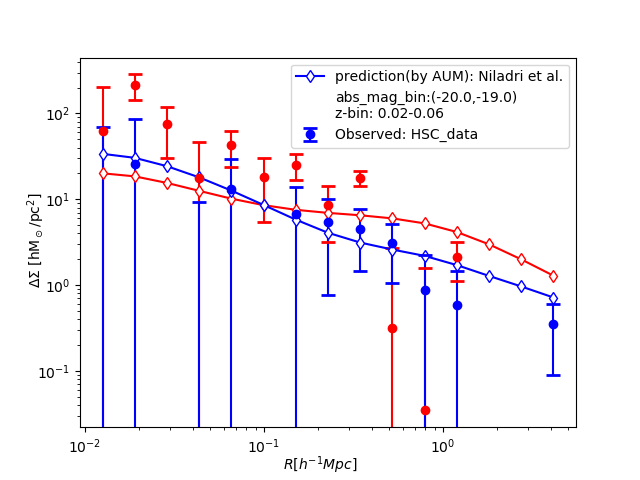
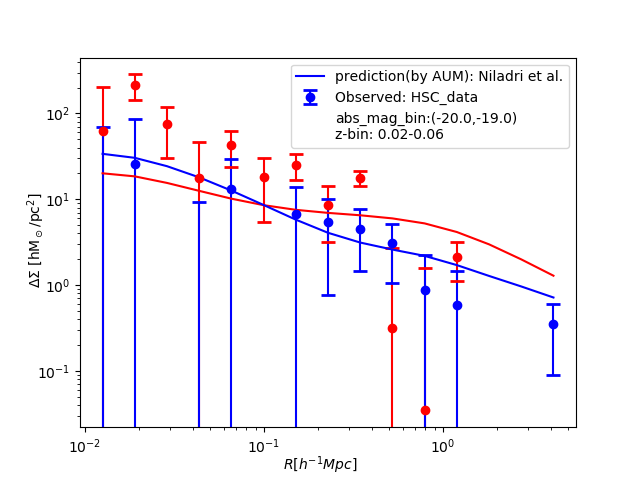
removed markers from theoretical plot

diff --git a/esd_plots_obs+theo.py b/esd_plots_obs+theo.py
@@ -21,7 +21,6 @@ for tag in identifier:
     #for ii,colr in zip(range(len(axes)),colour): #accessing one row at a time.
     #fig,axes = plt.subplots(1,1)
     for colr in colour:
-        fig,axes = plt.subplots(1,1)
         # get data from weaklensing pipeline output to plot
         deltasigma,r,errDeltaSigma = np.loadtxt('%s%d_%s.dat'%(base,tag,colr),usecols=(5,7,12),unpack=True)
         notnan = ~np.isnan(deltasigma) & ~np.isnan(r) & ~np.isnan(errDeltaSigma)
@@ -41,10 +40,11 @@ for tag in identifier:
             esd = dic[magbin[1:][binmax==float(hdr['absmmax'])][0]][1]['blue']
      
         # when plotting one colr on one plot
-        axes.plot(rp, esd, label=f"prediction(by AUM): Niladri et al.",c=colr, marker='d',markerfacecolor='white')
+        fig,axes = plt.subplots(1,1)
+        axes.plot(rp, esd, label=f"prediction(by AUM): Niladri et al.",c=colr) #marker='d', markerfacecolor='white',
         axes.errorbar(r, deltasigma, yerr=errDeltaSigma,c=colr, marker='o', label='Observed: HSC_data', fmt='o', linewidth=1.5, capsize=5, capthick=2)
-        axes.scatter([],[],facecolors='None',label="=======")
-        axes.scatter([],[],facecolors='None',label=f"{leg1}\n{leg2}")
+        axes.errorbar([],[],markerfacecolor='None',ls='',label=f"{leg1}\n{leg2}")
+        #axes.scatter([],[],facecolors='None',label="=======")
         axes.set_xscale('log')
         axes.set_yscale('log')    
         axes.legend(loc='best', frameon=True)
@@ -54,15 +54,14 @@ for tag in identifier:
         # for common title to all the subplots
         plt.savefig(f"{colr}_{hdr['absmmin'][-8:-3],hdr['absmmax'][-8:-3]}.png")
 
-    #    # plotting red and blue on the same plot 
+    #    # plotting red and blue on the same plot (comment above block and uncomment the axes outside this loop.) 
     #    if colr=='blue':
-    #        axes.plot(rp, esd, label=f"prediction(by AUM): Niladri et al.",c=colr, marker='d',markerfacecolor='white')
+    #        axes.plot(rp, esd, label=f"prediction(by AUM): Niladri et al.",c=colr) #marker='d', markerfacecolor='white'
     #        axes.errorbar(r, deltasigma, yerr=errDeltaSigma,c=colr, marker='o', label='Observed: HSC_data', fmt='o', linewidth=1.5, capsize=5, capthick=2)
     #    else:
-    #        axes.plot(rp, esd, c=colr, marker='d',markerfacecolor='white')
+    #        axes.plot(rp, esd, c=colr) #, marker='d',markerfacecolor='white'
     #        axes.errorbar(r, deltasigma, yerr=errDeltaSigma,c=colr, marker='o', fmt='o', linewidth=1.5, capsize=5, capthick=2)
-    ##axes.scatter([],[],facecolors='None',label="=======")
-    #axes.scatter([],[],facecolors='None',label=f"{leg1}\n{leg2}")
+    #axes.errorbar([],[],markerfacecolor='None',ls='',label=f"{leg1}\n{leg2}")
     #axes.set_xscale('log')
     #axes.set_yscale('log')    
     #axes.legend(loc='best', frameon=True)
